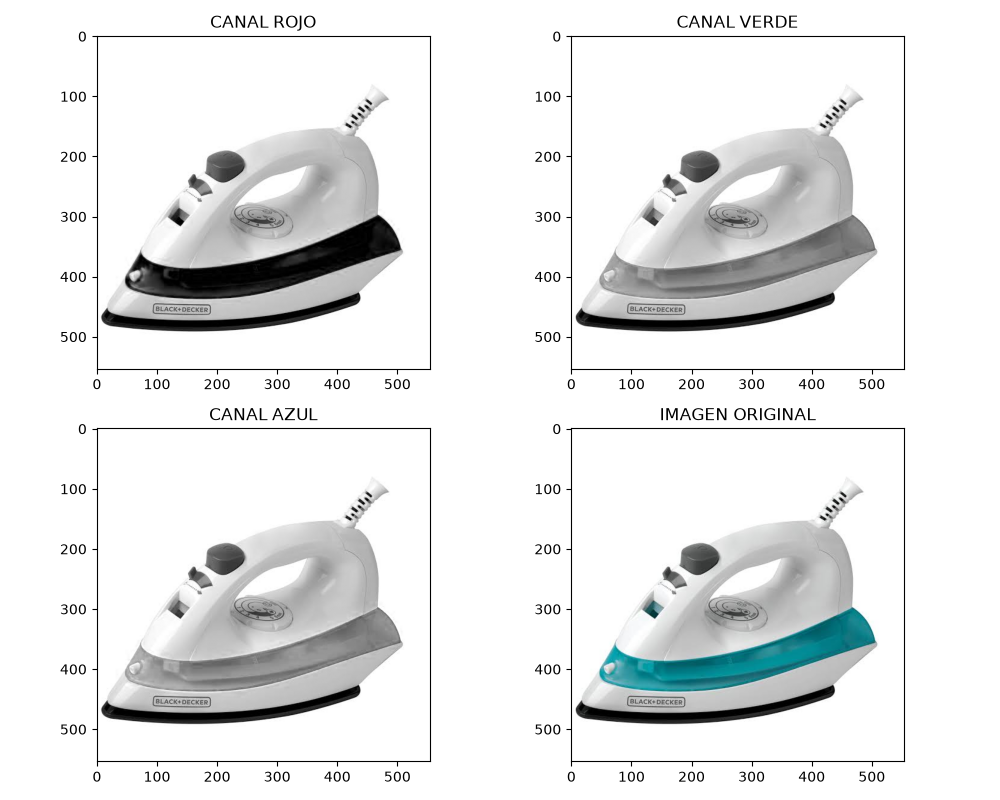
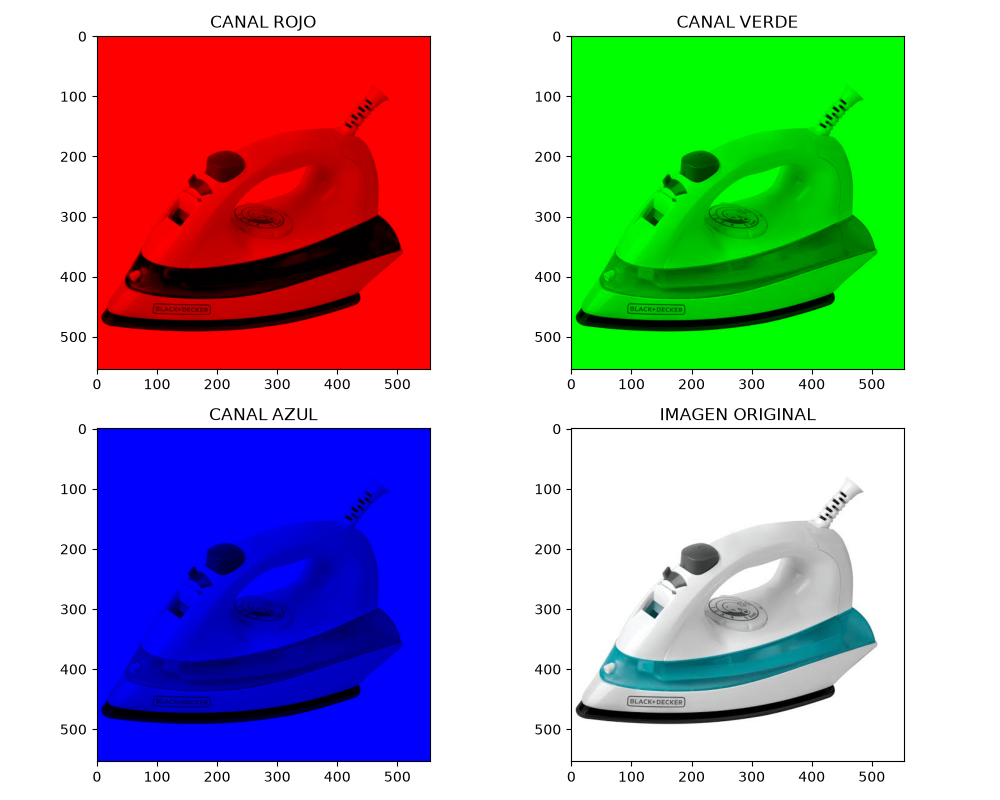
Add files via upload

diff --git a/U2_ACT3-0105/codigopy-0777/codigo-va-0105.py b/U2_ACT3-0105/codigopy-0777/codigo-va-0105.py
@@ -2,7 +2,7 @@
 import cv2
 import matplotlib.pyplot as plt
 import os
-#Iker Montoya 
+
 # Definir rutas
 carpeta_proyecto = os.path.dirname(os.path.abspath(__file__))
 carpeta_principal = os.path.dirname(carpeta_proyecto)
@@ -10,7 +10,6 @@ carpeta_principal = os.path.dirname(carpeta_proyecto)
 ruta_imagen = os.path.join(carpeta_principal, "img-original-0105", "Plancha.jpg")
 carpeta_resultados = os.path.join(carpeta_principal, "resultados")
 
-# Crear carpeta resultados
 os.makedirs(carpeta_resultados, exist_ok=True)
 
 # Cargar imagen
@@ -27,35 +26,38 @@ img = cv2.cvtColor(img, cv2.COLOR_BGR2RGB)
 # Separar canales
 R, G, B = cv2.split(img)
 
-# Mostrar canales
+# Crear figura
 fig = plt.figure(figsize=(10, 8))
 
+# Canal rojo
+rojo = cv2.merge((R, R * 0, R * 0))
 ax1 = fig.add_subplot(2, 2, 1)
-ax1.imshow(R, cmap="gray")
+ax1.imshow(rojo)
 ax1.set_title("CANAL ROJO")
 
+# Canal verde
+verde = cv2.merge((G * 0, G, G * 0))
 ax2 = fig.add_subplot(2, 2, 2)
-ax2.imshow(G, cmap="gray")
+ax2.imshow(verde)
 ax2.set_title("CANAL VERDE")
 
+# Canal azul
+azul = cv2.merge((B * 0, B * 0, B))
 ax3 = fig.add_subplot(2, 2, 3)
-ax3.imshow(B, cmap="gray")
+ax3.imshow(azul)
 ax3.set_title("CANAL AZUL")
 
-# Reconstruir imagen
-imgre = cv2.merge((R, G, B))
-
+# Imagen original
 ax4 = fig.add_subplot(2, 2, 4)
-ax4.imshow(imgre)
+ax4.imshow(img)
 ax4.set_title("IMAGEN ORIGINAL")
 
 plt.tight_layout()
 
-# Guardar resultado
+# Guardar imagen en resultados
 ruta_salida = os.path.join(carpeta_resultados, "Plancha_canales.png")
 plt.savefig(ruta_salida)
 
 print("Imagen guardada en:", ruta_salida)
 
 plt.show()
-print("Iker Montoya 0105")
